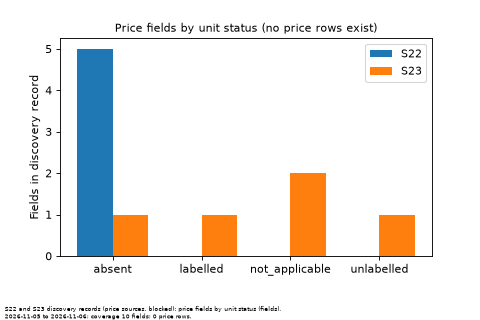
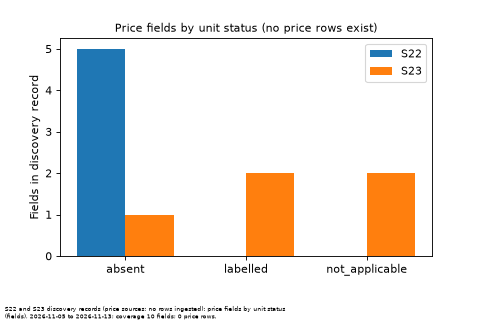
T269: Update price-dependent gates, reports and tests for the verified S23 onion scope

Changed region(s): [[0.375, 0.5312, 0.875, 0.875], [0.1875, 0.1562, 0.375, 0.875], [0.0, 0.9375, 0.5938, 1.0]]

diff --git a/tests/models/test_m06_features.py b/tests/models/test_m06_features.py
@@ -24,8 +24,10 @@ def test_gate_reports_real_source_failures_and_evidence_hashes():
     assert gate["prediction_rows"] == 0
     assert gate["sources"]["S22"]["outcome"] == "blocked"
     assert gate["sources"]["S23"]["licence"] == "open"
-    assert gate["sources"]["S23"]["units"] == "unlabelled"
-    assert gate["sources"]["S23"]["earliest_date"] == "2026-11-05"
+    # T269: onion verified, but no price row is ingested until T270, so M06 stays blocked.
+    assert gate["sources"]["S23"]["outcome"] == "available"
+    assert gate["sources"]["S23"]["units"] == "onion_only"
+    assert "no price rows" in gate["reason"] and "T270" in gate["reason"]
     assert gate["split_manifest"] is None
     for name, sha in gate["evidence"].items():
         assert hashlib.sha256((ROOT / name).read_bytes()).hexdigest() == sha

diff --git a/tests/analysis/test_eda_price.py b/tests/analysis/test_eda_price.py
@@ -61,12 +61,13 @@ def test_audit_rows_equal_the_discovery_field_map(sid):
         )["evidence"]
     }
     assert all(set(r["evidence"].split()) <= ids for r in rows)
-    assert rec["outcome"] == "blocked"
+    assert rec["outcome"] == {"S22": "blocked", "S23": "available"}[sid]
 
 
-def test_s23_modal_price_unit_stays_unverified():
+def test_s23_modal_price_unit_is_verified_for_onion_only():
     modal = next(r for r in audit_rows(RECORDS["S23"]) if r["canonical"] == "modal_inr_quintal")
-    assert modal["unit_status"] == "unlabelled"
+    assert modal["unit_status"] == "labelled" and "Onion only" in modal["detail"]
+    assert RECORDS["S23"]["enabled_scope"]["Commodity"] == ["Onion"]
 
 
 @pytest.mark.parametrize("adapter, sid", [(S22, "S22"), (S23, "S23")])

diff --git a/src/atlas/features/m16.py b/src/atlas/features/m16.py
@@ -120,8 +120,9 @@ EXTRA_EVIDENCE = ("reports/models/m16-flag-counts.json", "eval/anomalies/blocked
 REASON = (
     "M16 is research-only: the rule runs on the held S08 daily grids and flag counts are "
     "reported (reports/models/m16-flag-counts.json), but 0 of 100 flags are adjudicated (T212, "
-    "T213 blocked, D159), so precision is not measured and no quality claim is made. S22 and S23 "
-    "hold zero price rows and S32 has no 28-day window. No IsolationForest challenger was run."
+    "T213 blocked, D159), so precision is not measured and no quality claim is made. S22 is "
+    "blocked, S23 (verified for Karnataka onion, T269) holds zero price rows until T270, and S32 "
+    "has no 28-day window. No IsolationForest challenger was run."
 )
 
 

diff --git a/tests/models/test_m10_features.py b/tests/models/test_m10_features.py
@@ -18,7 +18,8 @@ def test_gate_reports_the_blocked_sources_with_evidence_hashes():
     gate = m10.data_gate()
     assert (gate["model_id"], gate["status"], gate["prediction_rows"]) == ("M10", "blocked", 0)
     assert gate["sources"]["S22"]["outcome"] == "blocked"
-    assert gate["sources"]["S23"]["latest_date"] == "2026-11-05" and gate["split_manifest"] is None
+    assert gate["sources"]["S23"]["units"] == "onion_only" and gate["split_manifest"] is None
+    assert "no rows ingested until T270" in gate["reason"]
     for name, sha in gate["evidence"].items():
         assert hashlib.sha256((ROOT / name).read_bytes()).hexdigest() == sha
     assert json.loads((ROOT / "reports/models/m10-data-gate.json").read_text("utf-8")) == gate

diff --git a/src/atlas/features/m10.py b/src/atlas/features/m10.py
@@ -8,9 +8,9 @@ from atlas.models import blocked
 MODEL_ID = "M10"
 SOURCES = ("S22", "S23")
 REASON = (
-    "M10 blocked: S22 exposes no price row and S23 is a one-day snapshot (5 Nov 2026) with an "
-    "unverified price unit, so there is no weekly market-commodity panel, no 30-market sample "
-    "and no 50 heavy-rain events; no effect can be estimated (T139)."
+    "M10 blocked: S22 exposes no price row and S23, verified for Karnataka onion only (T269), "
+    "has no rows ingested until T270, so there is no weekly market-commodity panel, no 30-market "
+    "sample and no 50 heavy-rain events; no effect can be estimated (T139)."
 )
 
 

diff --git a/tests/test_sql_insights.py b/tests/test_sql_insights.py
@@ -11,13 +11,17 @@ from atlas.analysis import sql_insights as si
 REPORT = si.REPORT.read_text("utf-8")
 
 
+NOT_INGESTED = {"S23"}  # T269 verified onion only; no rows until the T270 backfill
+
+
 def blocked_sources() -> set[str]:
+    """Sources that are blocked or verified but not yet ingested: never used as data."""
     out = set()
     for p in (si.ROOT / "configs/sources").glob("s*.yaml"):
         record = yaml.safe_load(p.read_text("utf-8"))
         if record.get("outcome") == "blocked":
             out.add(record["source_id"])
-    return out
+    return out | NOT_INGESTED
 
 
 def test_ten_queries_with_full_captions():

diff --git a/tests/models/test_m16_gate.py b/tests/models/test_m16_gate.py
@@ -40,7 +40,8 @@ def test_status_and_gate_files_are_what_the_code_writes_and_bind_their_evidence(
     assert STATUS["source_gate_sha256"] == hashlib.sha256(gate_bytes).hexdigest()
     for name, sha in gate["evidence"].items():
         assert hashlib.sha256((ROOT / name).read_bytes()).hexdigest() == sha, name
-    assert gate["sources"]["S22"]["outcome"] == gate["sources"]["S23"]["outcome"] == "blocked"
+    assert gate["sources"]["S22"]["outcome"] == "blocked"
+    assert gate["sources"]["S23"]["units"] == "onion_only" and "zero price rows" in gate["reason"]
     assert gate["split_manifest"] is None
 
 

diff --git a/tests/test_pbip.py b/tests/test_pbip.py
@@ -21,13 +21,17 @@ FOLDER = re.search(
 ).group(1)
 
 
+NOT_INGESTED = {"S23"}  # T269 verified onion only; no rows until the T270 backfill
+
+
 def blocked_sources() -> set[str]:
+    """Sources that are blocked or verified but not yet ingested: never used as data."""
     out = set()
     for p in (ROOT / "configs/sources").glob("s*.yaml"):
         record = yaml.safe_load(p.read_text("utf-8"))
         if record.get("outcome") == "blocked":
             out.add(record["source_id"])
-    return out
+    return out | NOT_INGESTED
 
 
 def files(base: Path) -> set[str]:

diff --git a/src/atlas/features/m06.py b/src/atlas/features/m06.py
@@ -12,8 +12,9 @@ from atlas.ingest.discovery import Discovery
 
 ROOT = Path(__file__).resolve().parents[3]
 REASON = (
-    "M06 blocked: verified Karnataka price history, price units and publication timing "
-    "are required before implementing labels, features or predictions (T035)."
+    "M06 blocked: no price rows yet. S23 is verified for Karnataka onion only (Rs./Quintal, "
+    "T269) but no rows are ingested until the T270 backfill; labels, features and predictions "
+    "wait for those rows and the T273 data gate (T035)."
 )
 
 

diff --git a/src/atlas/analysis/sql_insights.py b/src/atlas/analysis/sql_insights.py
@@ -37,7 +37,8 @@ NOT_ANSWERABLE = [
     (
         "How many of the rain-flood events were followed by a price spike in the nearest market?",
         "S22, S23 (market prices), flood labels",
-        "S22 and S23 are blocked, so there are no price rows, and flood labels are blocked.",
+        "S22 is blocked and S23 is verified for Karnataka onion only with no rows ingested until "
+        "T270, so there are no price rows; flood labels are blocked.",
     ),
 ]
 

diff --git a/reports/sql_insights.md b/reports/sql_insights.md
@@ -207,4 +207,4 @@ Query: `sql/insights/q10_busiest_karnataka_stations_2016.sql`
 ## Not answerable
 
 - **Which reservoirs filled fastest after the heaviest 3-day rain?** Blocked by S28 (KWRIS daily reservoir levels), S43. No daily reservoir history: S28 is blocked (D105) and the S32 KSEB reports we hold are sampled about every 15 days, so a 3-day rain window cannot be paired with a fill rate.
-- **How many of the rain-flood events were followed by a price spike in the nearest market?** Blocked by S22, S23 (market prices), flood labels. S22 and S23 are blocked, so there are no price rows, and flood labels are blocked.
+- **How many of the rain-flood events were followed by a price spike in the nearest market?** Blocked by S22, S23 (market prices), flood labels. S22 is blocked and S23 is verified for Karnataka onion only with no rows ingested until T270, so there are no price rows; flood labels are blocked.
